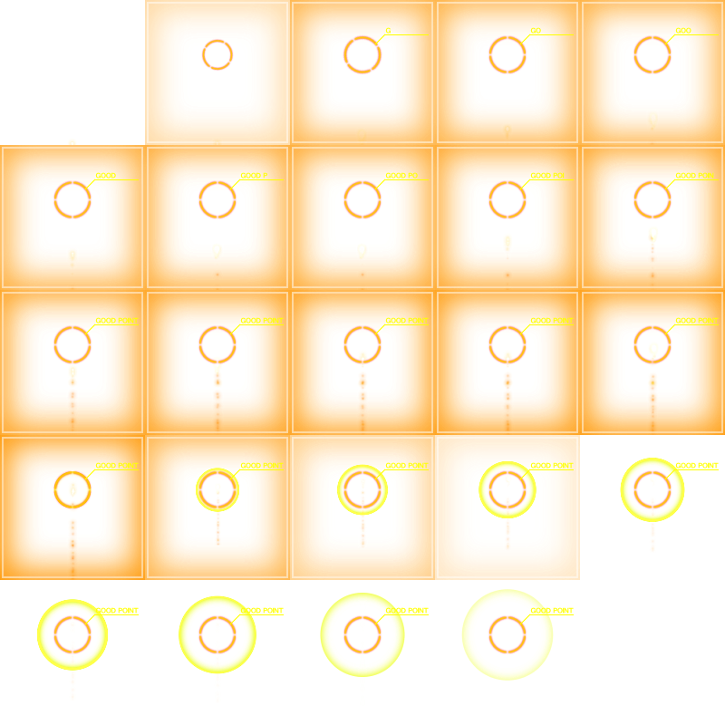
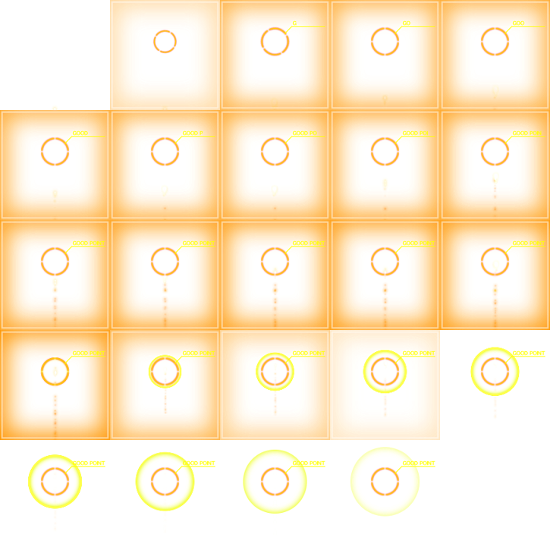
Changed the screen resolution to 512 x 512

diff --git a/main.py b/main.py
@@ -14,10 +14,10 @@ from mutagen.mp3 import MP3
 @processing_measure.measure
 def split_image(image):
     imageList = []
-    for i in range(0, 725, 145):
-        for j in range(0, 725, 145):
-            surface = pygame.Surface((145, 145), SRCALPHA)
-            surface.blit(image, (0, 0), (j, i, j + 145, i + 145))
+    for i in range(0, PANEL_SIZE * 5, PANEL_SIZE):
+        for j in range(0, PANEL_SIZE * 5, PANEL_SIZE):
+            surface = pygame.Surface((PANEL_SIZE, PANEL_SIZE), SRCALPHA)
+            surface.blit(image, (0, 0), (j, i, j + PANEL_SIZE, i + PANEL_SIZE))
             surface.set_colorkey((0, 0, 0), RLEACCEL)
             imageList.append(surface)
     return imageList
@@ -58,13 +58,15 @@ def play(music, fumen):
     screen = pygame.display.get_surface()
     pygame.display.set_caption("jbt-simulator")
     clock = pygame.time.Clock()
-    maker_frames = split_image(pygame.image.load(os.path.join('img', 'ripples.png')).convert_alpha())
+    maker_frames = split_image(pygame.image.load(os.path.join('img', 'sand.png')).convert_alpha())
     background = pygame.image.load(os.path.join('img', 'ble.png')).convert()
     handclap = pygame.mixer.Sound('soundeffects/handclap.wav')
-    font = pygame.font.Font(None, 32)
+    font = pygame.font.Font(None, 24)
     notes = load(fumen)
 
-    PANEL_POSITIONS = [(y, x) for x in range(6, 700, 145 + 36) for y in range(6, 700, 145 + 36)]
+    PANEL_POSITIONS = [(y, x)
+                       for x in range(0, WINDOW_W, PANEL_SIZE + PANEL_GAP)
+                       for y in range(0, WINDOW_H, PANEL_SIZE + PANEL_GAP)]
 
     TRACK_END = USEREVENT + 1
     pygame.mixer.music.set_endevent(TRACK_END)
@@ -78,13 +80,13 @@ def play(music, fumen):
         clock.tick(60)
         screen.fill((0, 0, 0))
         for (y, x) in PANEL_POSITIONS:
-            screen.set_clip(x, y, 145, 145)
+            screen.set_clip(x, y, PANEL_SIZE, PANEL_SIZE)
             screen.blit(background, (0, 0))
 
         for (positions, frame) in get_marker_frames(notes, diff_time):
             for position in positions:
                 x, y = PANEL_POSITIONS[position - 1]
-                screen.set_clip(x, y, 145, 145)
+                screen.set_clip(x, y, PANEL_SIZE, PANEL_SIZE)
                 screen.blit(maker_frames[frame], (x, y))
 
         screen.set_clip()
@@ -99,23 +101,25 @@ def play(music, fumen):
 
             if event.type == MOUSEBUTTONDOWN and event.button == 1:
                 x, y = event.pos
-                set_time = x * MP3(music).info.length / 700  # sec
+                set_time = x * MP3(music).info.length / WINDOW_W  # sec
                 pygame.mixer.music.play(0, set_time)
                 start_time = pygame.time.get_ticks() - set_time * 1000
 
-        screen.blit(font.render('%.1f' % clock.get_fps(), True, (255, 255, 255)), (36, 36))
+        screen.blit(
+            font.render('%.1f' % clock.get_fps(), True, (255, 255, 255)), (PANEL_GAP / 2, PANEL_GAP / 2))
         pygame.display.update()
 
 
 @processing_measure.measure
 def pygame_init():
-    pygame.display.set_mode((700, 700), pygame.DOUBLEBUF)
+    pygame.display.set_mode((WINDOW_W, WINDOW_H), pygame.DOUBLEBUF)
     pygame.display.set_caption("jbt-simulator")
     pygame.mixer.init(frequency=44100, size=-16, channels=2, buffer=1024)
     pygame.font.init()
 
 
 if __name__ == "__main__":
+    WINDOW_W, WINDOW_H, PANEL_SIZE, PANEL_GAP = (512, 512, 110, 24)
     if len(sys.argv) == 3:
         pygame_init()
         play(sys.argv[1], sys.argv[2])
